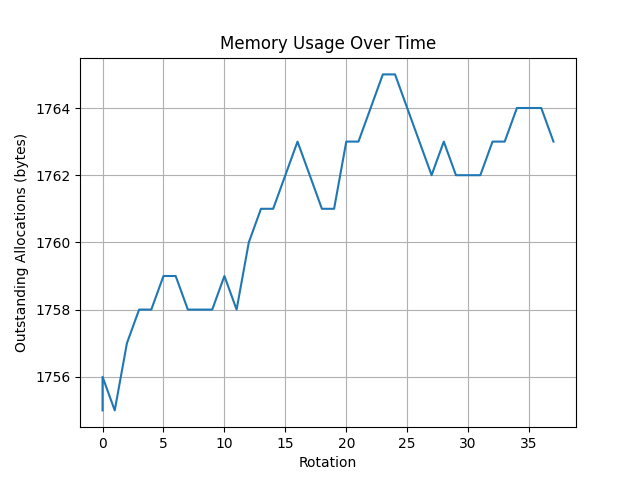
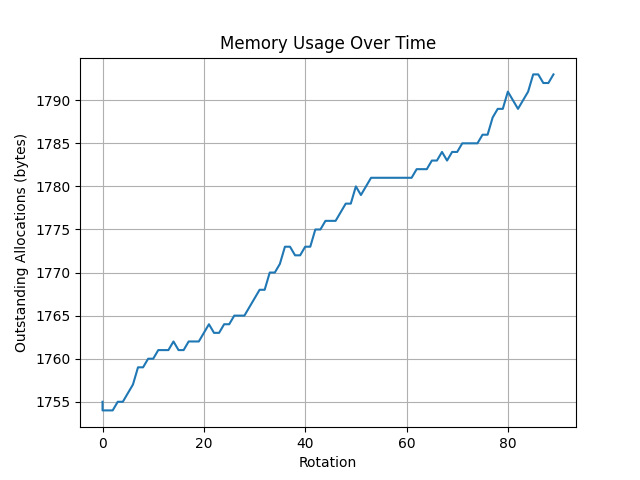
fixed mem comp python

diff --git a/mem_comp.py b/mem_comp.py
@@ -14,6 +14,7 @@ os.system('cd Excecises/src && make')
 
 
 # Start the program town_sim.exe (Windows) or ./town_sim (Linux/Mac) then wait a bit  
+os.chdir('Excecises/src')
 print("Successfully compiled .Starting town_sim...")
 proc = subprocess.Popen(['./town_sim.exe' if os.name == 'nt' else './town_sim'])
 try:
